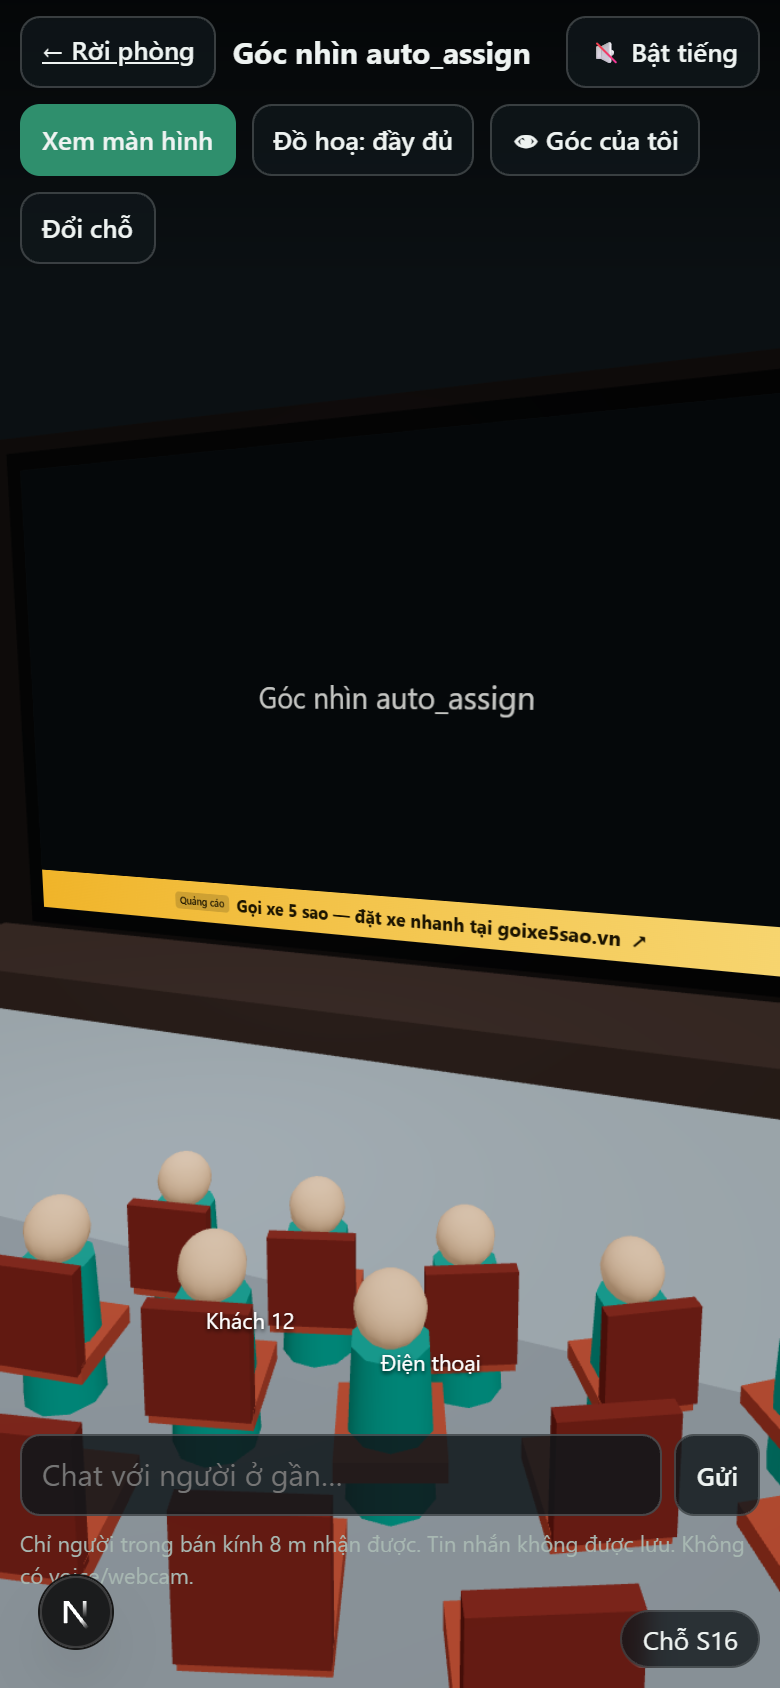
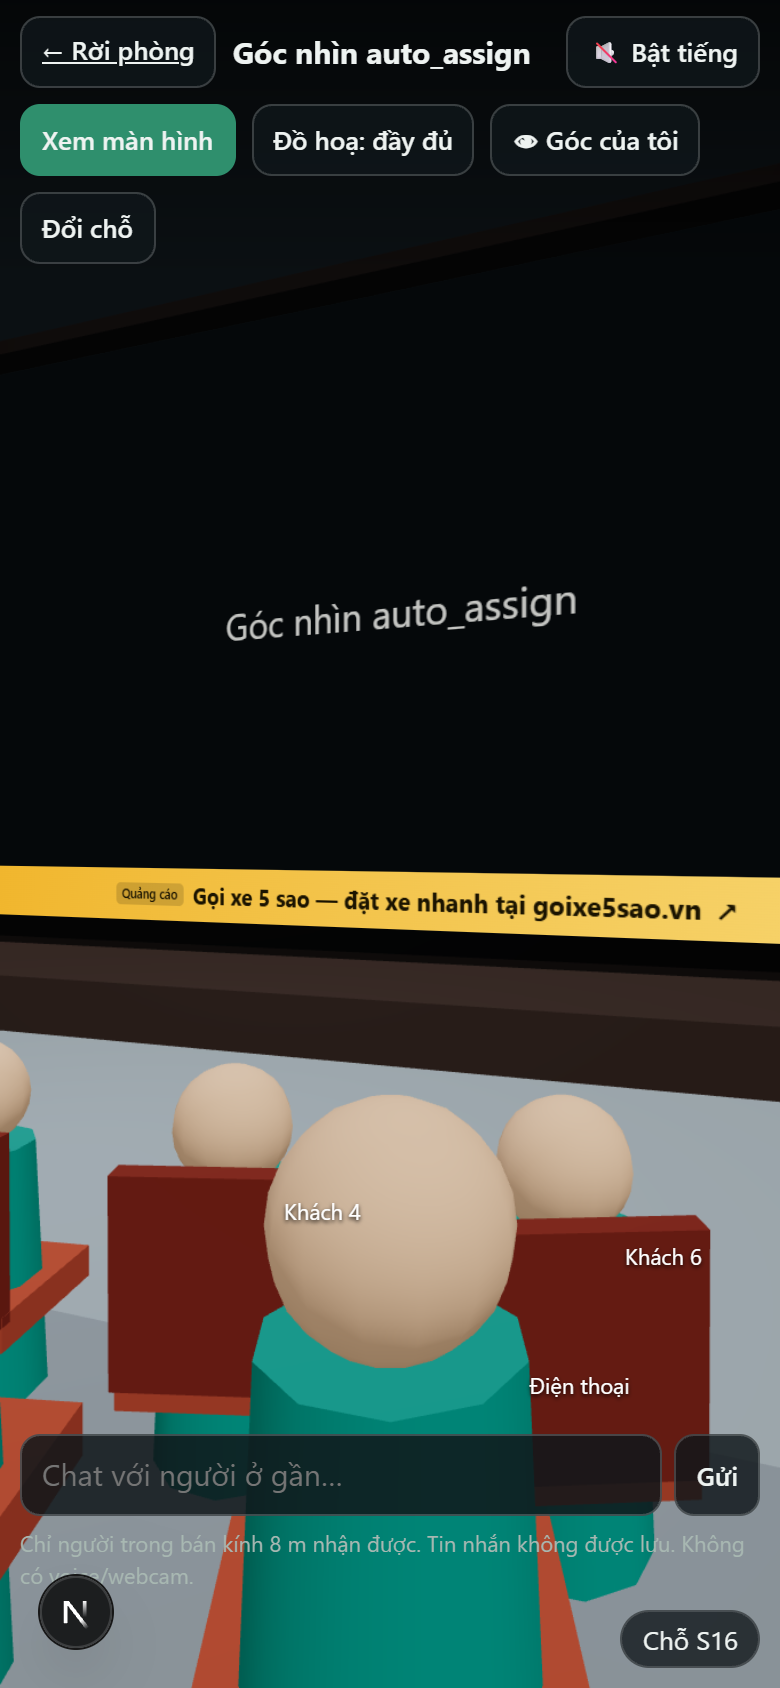
fix(room): lower the view from behind — over the shoulder, aimed at the screen centre
The camera floated high above the hall. It now sits just behind and a little above the own
head (close enough that the row in between never hides the own avatar), aimed at the centre
of the stage screen; the name tag moves a bit further onto the right shoulder.

diff --git a/src/components/room/scene.tsx b/src/components/room/scene.tsx
@@ -141,7 +141,7 @@ function SimpleModel({ group, color }: { group: string; color: string }) {
 
 const tmpV = new THREE.Vector3();
 /** Where the name tag sits on each kind of avatar (local coords; +x = the avatar's right side). */
-const SHOULDER: Record<string, [number, number, number]> = { people: [0.22, 0.95, 0], animals: [0.2, 0.75, 0], vehicles: [0, 1.5, 0] };
+const SHOULDER: Record<string, [number, number, number]> = { people: [0.3, 0.95, 0], animals: [0.2, 0.75, 0], vehicles: [0, 1.5, 0] };
 const tmpA = new THREE.Vector3();
 
 const Avatar = memo(function Avatar({ id, store, layout, lite, bubbleTick, portal }: { id: string; store: MemberStore; layout: Layout; lite: boolean; bubbleTick: number; portal: React.RefObject<HTMLElement | null> }) {
@@ -624,25 +624,19 @@ function ParticipantRig({ layout, store, selfId, controls, send, entryMode }: { 
     if (c.behind) {
       // Eyes of someone sitting 2 rows behind: own avatar + the rows in front + the screen.
       const seated = !!seat && me.status === "seated";
-      // The camera is level with the centre of the stage screen (same height on desktop and
-      // mobile). It stays far enough back that the own avatar is at most ~30° below the horizon,
-      // and pitches down just enough to put the own avatar in the lower part of the frame while
-      // the whole screen stays in view.
+      // Over the shoulder, low (not floating above the hall): just behind and a little above the
+      // own head — close enough that the row in between never hides the own avatar — aimed at
+      // the centre of the stage screen; pitch is limited so the own avatar stays in frame.
       const selfFloor = seat ? seat.y : floorY(layout, sf.z, me.status !== "waiting");
-      const selfTop = selfFloor + (isCar ? 2.2 : 1.6);
-      let back = layout.rowGap * 2 + (seated ? 0 : layout.rowGap);
-      let bx = sf.x - h.fx * back;
-      let bz = sf.z - h.fz * back;
-      let y = Math.max(layout.screen.y, floorY(layout, bz, me.status !== "waiting") + layout.eyeHeight + 0.6);
-      const minBack = (y - selfTop) / Math.tan(0.53);
-      if (back < minBack) {
-        back = minBack;
-        bx = sf.x - h.fx * back;
-        bz = sf.z - h.fz * back;
-        y = Math.max(y, floorY(layout, bz, me.status !== "waiting") + layout.eyeHeight + 0.6);
-      }
+      const selfTop = selfFloor + (isCar ? 1.8 : 1.2); // centre of the own head / car roof
+      const back = isCar ? (seated ? 6 : 8) : seated ? Math.min(1.6, layout.rowGap * 1.1) : 2.4;
+      const bx = sf.x - h.fx * back;
+      const bz = sf.z - h.fz * back;
+      const y = Math.max(selfTop + (isCar ? 1.2 : 0.5), floorY(layout, bz, me.status !== "waiting") + layout.eyeHeight + 0.3);
       camera.position.set(bx, y, bz);
-      tilt = -Math.max(0, Math.atan2(Math.max(0, y - selfTop), back) - 0.38);
+      const toScreen = Math.atan2(layout.screen.y - y, Math.max(1, Math.hypot(layout.screen.x - bx, layout.screen.z - bz)));
+      const selfBelow = Math.atan2(Math.max(0, y - selfTop), back); // own head, angle below the horizon
+      tilt = Math.min(toScreen, 0.36 - selfBelow);
     } else {
       // Own view: always level with the centre of the stage screen, looking straight ahead,
       // so the screen sits in the middle of the display (also right after joining).
